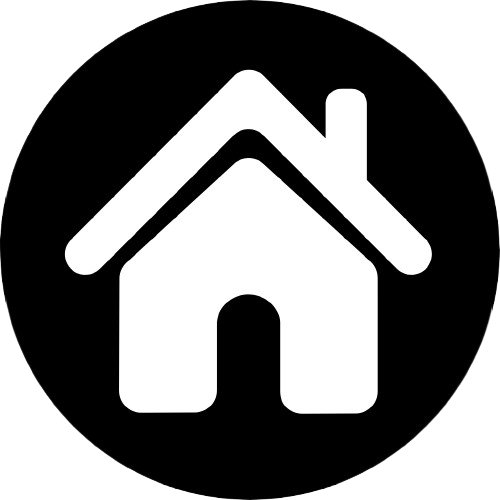
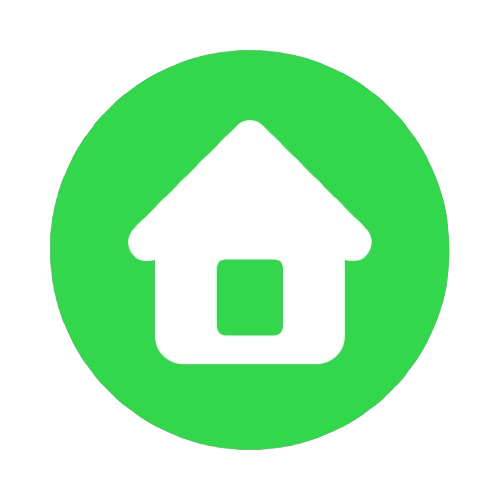
아이콘 수정

diff --git a/flutter/lib/pages/story_display_default_page.dart b/flutter/lib/pages/story_display_default_page.dart
@@ -197,7 +197,17 @@ class _StoryDisplayDefaultPageState extends State<StoryDisplayDefaultPage> {
                       playNarration(partKey!);
                     }
                   },
-                  icon: Image.asset('assets/images/music.png',
+                  icon: Image.asset('assets/images/play.png',
+                      width: 60, height: 60),
+                ),
+                SizedBox(width: 16.0),
+                IconButton(
+                  onPressed: () {
+                    if (partKey != null) {
+                      playNarration(partKey!);
+                    }
+                  },
+                  icon: Image.asset('assets/images/pause.png',
                       width: 60, height: 60),
                 ),
               ],
